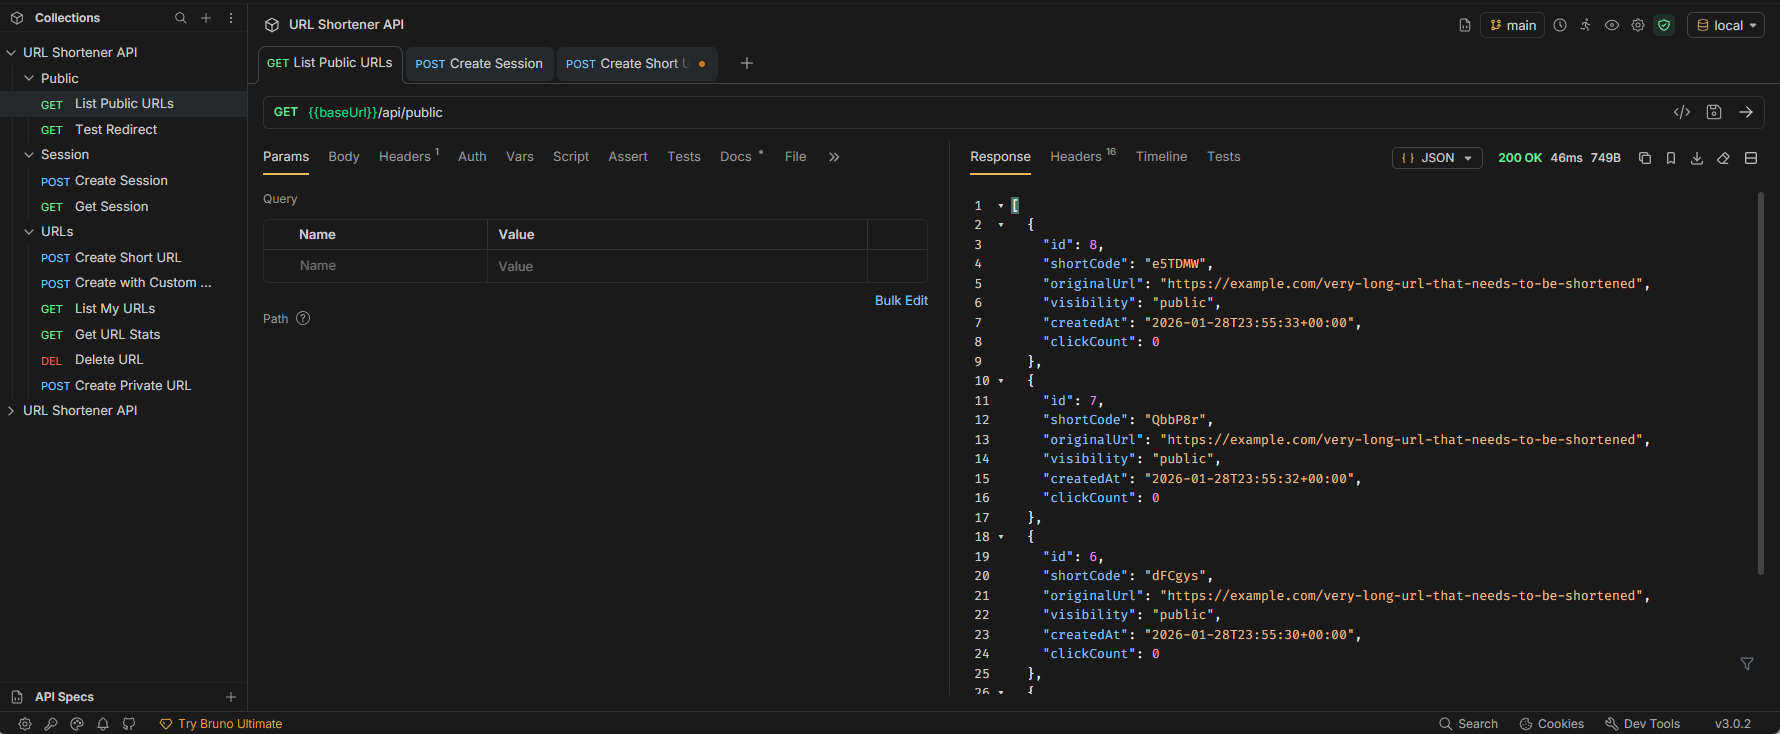
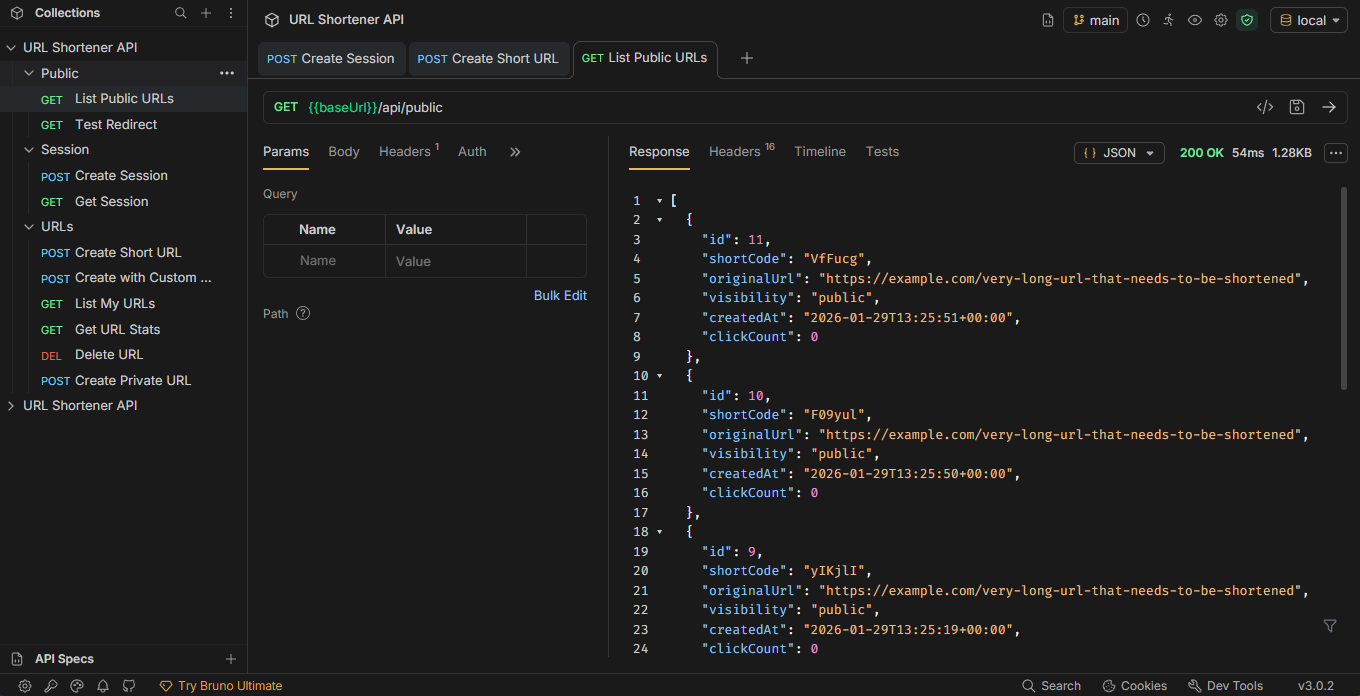
Add CI/CD section to README and update assets

diff --git a/README.md b/README.md
@@ -81,3 +81,7 @@ Backend includes unit tests and API integration tests covering all endpoints.
 cd backend
 composer tests
 ```
+
+## CI/CD
+
+GitHub Actions workflow runs tests on every push/PR to main branch.
